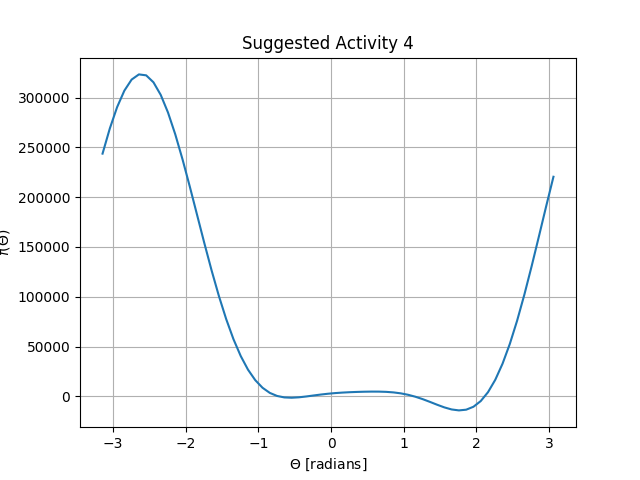
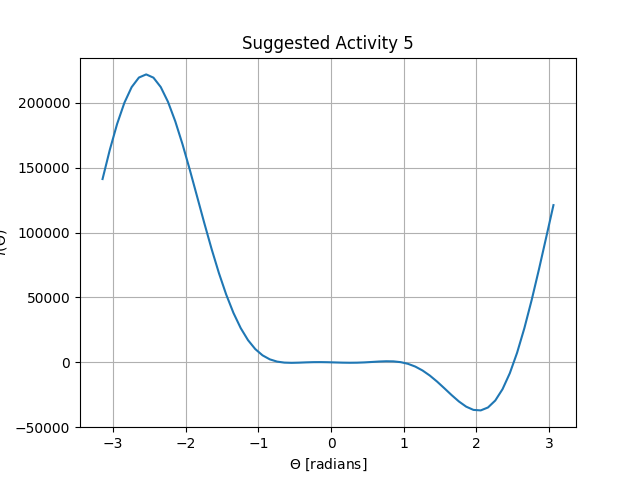
Kláraði 4 og 5

diff --git a/v1.py b/v1.py
@@ -7,7 +7,6 @@ Institute:  Haskoli Islands
 Professor:  Sigurdur Freyr Hafstein
 Authors:    Erling Oskar Kristjansson   eok4@hi.is
             David Freyr Bjornsson       dfb2@hi.is
-            
 """
 
 import numpy as np
@@ -15,20 +14,28 @@ import math
 import scipy.optimize as scOpt
 import matplotlib.pyplot as plt
 
-''' Vidvaerar breytur fyrir Suggested Activities 1-3 allavega '''
+""" 
+
+Ytri breytur (stikar) sem við skilgreinum sem
+global eða viðværar breytur 
+
+"""
+# global x1, x2, y2, L1, L2, L3, gamma, p1, p2, p3 
 x1=y2   = 4     # tekid af fig 1.15
 x2      = 0     # tekid af fig 1.15
-L1      = 2     # skritid ad thessi se ekki notadur, en hann kemur ekki fram i jofnunni i bokinni
+L1      = 2     
 L2 = L3 = np.sqrt(2)
 gamma   = np.pi/2
 p1=p2=p3= np.sqrt(5)
 
 ''' Suggested Activity 1
-Params L1,L2,L3,γ,x1,x2,y2 are fixed constants,
-strut lengths p1,p2,p3 will be known for a given pose.
+Params L1, L2, L3, γ, x1, x2, y2 are fixed constants,
+strut lengths p1, p2, p3 will be known for a given pose.
 '''
+print("\n Suggested Activity 1 \n")
+# Fallið f skilar f(theta, p1, p2, p3, L1, L2, L3, gamma, x1, x2, y2)
+# fyrir gefin gildi á theta, p1, p2, p3, L1, L2, L3, gamma, x1, x2 og y2
 def f(theta, p1, p2, p3, L1, L2, L3, gamma, x1, x2, y2):
-    ### Derived:
     A2      = L3*np.cos(theta)-x1
     B2      = L3*np.sin(theta)
     A3      = L2*np.cos(theta+gamma)-x2
@@ -40,12 +47,12 @@ def f(theta, p1, p2, p3, L1, L2, L3, gamma, x1, x2, y2):
     N2      =-A3*aNum+A2*bNum 
     return N1**2+N2**2-p1**2*D**2
 
-thetaGiven = np.pi/4
-
-#print(f(theta0))     # -4.547473508864641e-13 simeq 0... Eigum vid ad meta ovissu?
-#print(f(-theta0))
-#print(f(0))
-#print(f(np.pi))
+print("Látum theta = -pi/4 og theta = pi/4")
+print("Þá ætti f(theta) = 0")
+print("Nú fæst að f(theta) er:")
+print(f(np.pi/4, p1, p2, p3, L1, L2, L3, gamma, x1, x2, y2))
+print("og")
+print(f(-np.pi/4, p1, p2, p3, L1, L2, L3, gamma, x1, x2, y2))     
 
 '''
 Suggested Activity 2
@@ -54,37 +61,51 @@ Her sest nokkud merkilegt nefnilega hvad grafid er nalaegt nulli lengi.
 Hefur sannarlega nullpunkta i +/- 0.25*pi eins og lysingin segir.
 Maetti teikna thad staerra eda skyrar...
 '''
-
-def fPlot(thetaLow, thetaHigh, fileName, graphTitle):
-
-        theRange = np.arange(thetaLow, thetaHigh, 0.1)
-
+print("\n Suggested Activity 2 \n")
+def fPlot(thetaL, thetaH, fileName, graphTitle):
+        # Setjum bilið á theta sem við viljum
+        # teikna f(theta) fyrir
+        theRange = np.arange(thetaL, thetaH, 0.1)
+        # Upphafsstillum myndina og ásana
         figure, axis = plt.subplots()
+        # Teiknum grafið
         axis.plot(theRange, f(theRange, p1, p2, p3, L1, L2, L3, gamma, x1, x2, y2))
+        # Setjum titil á grafið og ásana
         axis.set(xlabel=r"${\Theta}$ [radians]", 
                 ylabel="$f({\Theta})$",
                 title = graphTitle)
         axis.grid()
+        # Vistum myndina
         fileString = fileName + ".png"
         figure.savefig(fileString)
-        plt.xticks(np.arange(thetaLow, thetaHigh, 0.5))
+        # Setjum minnsta sýnilega bilið á x - ásnum
+        plt.xticks(np.arange(thetaL, thetaH, 0.5))
         plt.show()
 
+# Teiknum f(theta) fyrir theta frá -pi upp í pi
 fPlot(-np.pi, np.pi, "sa2", 'Suggested Activity 2')
 
-# Skilar núllstöð f. Þarf upphafságiskun sem byggir á
-# því að skoða graf af f(theta) 
+# Finnum núllstöðvar f(theta) með útreikningi
+# Þær ættu að vera theta = pi/4 og theta = -pi/4
+
+# fSolver skilar núllstöð f. Þarf upphafságiskun sem byggir á
+# því að skoða graf af f(theta)
 def fSolver(f, thetaGuess): 
         func = lambda theta : f(theta, p1, p2, p3, L1, L2, L3, gamma, x1, x2, y2)
         # Aðferðin sem fsolve notar til að finna núllstöð: 
         # https://www.math.utah.edu/software/minpack/minpack/hybrd.html
-        thetaSolution = scOpt.fsolve(func, thetaGuess)
-        return thetaSolution
+        thetaSol = scOpt.fsolve(func, thetaGuess)
+        return thetaSol
 
 # Skoðum graf af f(theta) og sjáum þá fyrir hvaða gildi
 # á theta, f(theta) er nálægt núlli
 thetaCalculated = fSolver(f, np.pi/5)
+thetaGiven = np.pi/4
+print("Núllstöð f(theta) sem fékkst með ítrun er:", thetaCalculated)
+print("Gefin núllstöð f(theta) er:", thetaGiven)
 
+thetaCalculated = fSolver(f, -np.pi/5)
+thetaGiven = -np.pi/4
 print("Núllstöð f(theta) sem fékkst með ítrun er:", thetaCalculated)
 print("Gefin núllstöð f(theta) er:", thetaGiven)
 
@@ -92,6 +113,7 @@ print("Gefin núllstöð f(theta) er:", thetaGiven)
 Suggested Activity 3
 Reproduce Figure 1.15
 '''
+print("\n Suggested Activity 3 \n")
 # Latum xL2 := x + L2*cos(theta + gamma)
 #       yL2 := y + L2*sin(theta + gamma)
 #       xL3 := x + L3*cos(theta + gamma)
@@ -139,9 +161,8 @@ def plotStewartPlatform(x, y, x1, x2, y2, xL2, yL2, xL3, yL3, plotTitle="Vantar 
         plotObject.set(xlabel="x", 
                 ylabel="y",
                 title = plotTitle)
-        # plotObject.ylabel.set_rotation('0')     Hef reynt ad snua thessu y
-        # plotObject.grid()
 
+        # Vistum myndina
         plotSaveFile = plotName + ".png"
         fig.savefig(plotSaveFile)
         plt.show()
@@ -167,6 +188,7 @@ Suggested Activity 4
 Solve the forward kinematics problem for the planar Stewart platform.
 Plot f(theta) and then solve f(theta) = 0
 '''
+print("\n Suggested Activity 4 \n")
 # Stikar
 x1 = 5 
 x2, y2 = 0, 6
@@ -180,27 +202,27 @@ p3 = 3
 fPlot(-np.pi, np.pi, "sa4", 'Suggested Activity 4')
 
 # Finnum núna fjórar núllstöðvar f(theta)
-thetaCalculated = np.zeros(4, dtype=float)
+thetas = np.zeros(4, dtype=float)
 
 # Útfrá mynd sést að ágætis upphafsgisk fyrir
 # þessar fjórar núllstöðvar f(theta) eru
-# -0.7, -0.6, 1.1, 2.1
-thetaGuesses = [-0.7, -0.3, 1.1, 2.1]
+# -0.7, -0.3, 1.1, 2.1
+thetasGuess = [-0.7, -0.3, 1.1, 2.1]
 
 # Hér fáum við út réttar núllstöðvar
-print("Ef thetaCalculated er raunveruleg núllstöð þá ætti")
-print("f(thetaCalculated að vera mjög nálægt núlli \n")
-for i in range(0,len(thetaCalculated)):
-        thetaCalculated[i] = fSolver(f, thetaGuesses[i])
-        print("Nú fæst að thetaCalculated er:", thetaCalculated[i])
-        print("Svo er f(thetaCalculated:", f(thetaCalculated[i], p1, p2, p3, L1, L2, L3, gamma, x1, x2, y2), "\n")
+print("Ef theta er raunveruleg núllstöð þá ætti")
+print("f(theta) að vera mjög nálægt núlli \n")
+for i in range(0,len(thetas)):
+        thetas[i] = fSolver(f, thetasGuess[i])
+        print("Nú fæst að theta er:", thetas[i])
+        print("Svo er f(theta):", f(thetas[i], p1, p2, p3, L1, L2, L3, gamma, x1, x2, y2), "\n")
 
-# Reiknum út x og y fyrir útreiknaðar núllstöðvar f(theta)
-xCalc = np.zeros(4, dtype=float)
-yCalc = np.zeros(4, dtype=float)
+# Geymir x og y gildin fyrir útreiknaðar núllstöðvar f(theta)
+xy = np.zeros([4,2], dtype=float)
 
+# Fallið xyCalc reiknar út gildin á x og y miðað við gefin
+# gildi á theta, p1, p2, p3, L1, L2, L3, gamma, x1, x2 og y2.
 def xyCalc(theta, p1, p2, p3, L1, L2, L3, gamma, x1, x2, y2):
-    ### Derived:
     A2      = L3*np.cos(theta)-x1
     B2      = L3*np.sin(theta)
     A3      = L2*np.cos(theta+gamma)-x2
@@ -210,34 +232,98 @@ def xyCalc(theta, p1, p2, p3, L1, L2, L3, gamma, x1, x2, y2):
     D       = 2*(A2*B3-B2*A3)
     N1      = B3*aNum-B2*bNum
     N2      =-A3*aNum+A2*bNum 
-    
     x = N1/D
     y = N2/D
-    return x,y
+    return [x, y]
 
 for i in range(0, 4): 
-        xCalc[i], yCalc[i] = xyCalc(thetaCalculated[i], p1, p2, p3, L1, L2, L3, gamma, x1, x2, y2)
+        xy[i] = xyCalc(thetas[i], p1, p2, p3, L1, L2, L3, gamma, x1, x2, y2)
 
-# Útfrá útreiknuðum theta, x og y gildum getum  við síðan reiknað xL2, yL2, xL3, yL3
-xL2Calc = yL2Calc = xL3Calc = yL3Calc = np.zeros(4, dtype=float)
+# Útfrá útreiknuðum theta, x og y gildum getum við síðan reiknað xL2, yL2, xL3, yL3
+xyL23 = np.zeros([4,4], dtype=float)
 
-def xyLCalc(theta, p1, p2, p3, L1, L2, L3, gamma, x1, x2, y2, x, y): 
+def xyLCalc(theta, x, y, p1, p2, p3, L1, L2, L3, gamma, x1, x2, y2): 
         xL2 = x + L2*np.cos(theta + gamma)
         yL2 = y + L2*np.sin(theta + gamma)
         xL3 = x + L3*np.cos(theta)
         yL3 = y + L3*np.sin(theta)
-        return xL2,yL2,xL3,yL3
+        return [xL2, yL2, xL3, yL3]
 
 for i in range(0, 4):
-        xL2Calc[i], yL2Calc[i], xL3Calc[i], yL3Calc[i] = xyLCalc(thetaCalculated[i], p1, p2, p3, L1, L2, L3, gamma, x1, x2, y2, xCalc[i], yCalc[i])
+        xyL23[i] = xyLCalc(thetas[i], xy[i,0], xy[i,1], p1, p2, p3, L1, L2, L3, gamma, x1, x2, y2)
 
 # Teiknum Stewart platform fyrir þessar fjórar núllstöðvar f(theta)
 # og könnum í leiðinni hvort lengdirnar á struts séu p1, p2 og p3
+
+# Fáum röng gildi á p3Calc fyrir fyrstu 2 núllstöðvarnar en þar er
+# f(theta) mun flatari ferill en fyrir þær seinni 2. Villumögnun
+# gæti því verið að valda þessu
 for i in range(0, 4):
-        p1Calc = math.hypot(x - 0, y - 0)
-        p2Calc = math.hypot(xL3 - x1, yL3 - 0)
-        p3Calc = math.hypot(xL2 - x2, yL2 - y2)
+        p1Calc = math.hypot(xy[i,0] - 0, xy[i,1] - 0)
+        p2Calc = math.hypot(xyL23[i,2] - x1, xyL23[i,3] - 0)
+        p3Calc = math.hypot(xyL23[i,0] - x2, xyL23[i,1] - y2)
+        print("Fyrir núllstöðina", thetas[i], "þá fást eftirfarandi niðurstöður")
         print("Nú er p1 = 5 en útreiknað gildi er:", p1Calc)
         print("Nú er p2 = 5 en útreiknað gildi er:", p2Calc)
         print("Nú er p3 = 3 en útreiknað gildi er:", p3Calc)
-        plotStewartPlatform(xCalc[i], yCalc[i], x1, x2, y2, xL2Calc[i], yL2Calc[i], xL3Calc[i], yL3Calc[i])
+        print("\n")
+        plotStewartPlatform(xy[i,0], xy[i,1], x1, x2, y2, xyL23[i, 0], xyL23[i, 1], xyL23[i, 2], xyL23[i, 3], "Suggested Activity 4", "sa4")
+
+'''
+Suggested Activity 5
+Change strut length to p2 = 7 and re-solve the problem. 
+For these parameters, there are six poses
+'''
+print("Suggested Activity 4 \n")
+# Change the value of p2
+p2 = 7
+
+# Teiknum f(theta) fyrir theta frá -pi upp í pi
+fPlot(-np.pi, np.pi, "sa4", 'Suggested Activity 5')
+
+# Finnum núna sex núllstöðvar f(theta)
+# Hér er ferillinn mjög flatur í kringum fimm
+# af sex núllstöðvunum
+thetas2 = np.zeros(6, dtype=float)
+
+# Útfrá mynd sést að ágætis upphafsgisk fyrir
+# þessar sex núllstöðvar f(theta) eru
+# -0.7, -0.4, 0, 0.42, 1, 2.5
+thetasGuess2 = [-0.7, -0.4, 0, 0.42, 1, 2.5]
+
+# Hér fáum við út réttar núllstöðvar
+print("Ef theta er raunveruleg núllstöð þá ætti")
+print("f(theta) að vera mjög nálægt núlli \n")
+for i in range(0,len(thetas2)):
+        thetas2[i] = fSolver(f, thetasGuess2[i])
+        print("Nú fæst að theta er:", thetas2[i])
+        print("Svo er f(theta):", f(thetas2[i], p1, p2, p3, L1, L2, L3, gamma, x1, x2, y2), "\n")
+
+# Geymir x og y gildin fyrir útreiknaðar núllstöðvar f(theta)
+xy2 = np.zeros([4,2], dtype=float)
+
+for i in range(0, 4): 
+        xy2[i] = xyCalc(thetas2[i], p1, p2, p3, L1, L2, L3, gamma, x1, x2, y2)
+
+# Útfrá útreiknuðum theta, x og y gildum getum við síðan reiknað xL2, yL2, xL3, yL3
+xy2L23 = np.zeros([4,4], dtype=float)
+
+for i in range(0, 4):
+        xy2L23[i] = xyLCalc(thetas2[i], xy2[i,0], xy2[i,1], p1, p2, p3, L1, L2, L3, gamma, x1, x2, y2)
+
+# Teiknum Stewart platform fyrir þessar fjórar núllstöðvar f(theta)
+# og könnum í leiðinni hvort lengdirnar á struts séu p1, p2 og p3
+
+# Fáum röng gildi á p3Calc fyrir fyrstu 2 núllstöðvarnar en þar er
+# f(theta) mun flatari ferill en fyrir þær seinni 2. Villumögnun
+# gæti því verið að valda þessu
+for i in range(0, 4):
+        p1Calc2 = math.hypot(xy2[i,0] - 0, xy2[i,1] - 0)
+        p2Calc2 = math.hypot(xy2L23[i,2] - x1, xy2L23[i,3] - 0)
+        p3Calc2 = math.hypot(xy2L23[i,0] - x2, xy2L23[i,1] - y2)
+        print("Fyrir núllstöðina", thetas2[i], "þá fást eftirfarandi niðurstöður")
+        print("Nú er p1 = 5 en útreiknað gildi er:", p1Calc2)
+        print("Nú er p2 = 7 en útreiknað gildi er:", p2Calc2)
+        print("Nú er p3 = 3 en útreiknað gildi er:", p3Calc2)
+        print("\n")
+        plotStewartPlatform(xy2[i,0], xy2[i,1], x1, x2, y2, xy2L23[i, 0], xy2L23[i, 1], xy2L23[i, 2], xy2L23[i, 3], "Suggested Activity 5", "sa5")

diff --git a/funDefaultArg.py b/funDefaultArg.py
@@ -1,0 +1,53 @@
+a = 2 
+b = 3
+
+def fun(x, a = a, b = b):
+    return x + a + b
+
+# Hér ætti að koma út 1 + 2 + 3 = 6
+print(fun(1))
+
+a = 0 
+b = 0
+
+# Hér ætti að koma út 1 + 0 + 0 = 1
+# en það kemur út 6
+print(fun(1))
+
+################################
+
+print("\n Gerum þetta með því að nota global lykilorðið \n")
+
+global c, d
+c = 2
+d = 3 
+
+def fun2(y, c = c, d = d):
+    return y + a + b
+
+# Hér ætti að koma út 1 + 2 + 3 = 6
+print(fun(1))
+
+c = 0 
+d = 0
+
+# Hér ætti að koma út 1 + 0 + 0 = 1
+print(fun2(1))
+
+print("\n Sleppum að nota default arguments \n")
+
+y = 1
+e = 2
+f = 3 
+
+def fun3(y, e, f):
+    return y + e + f
+
+# Hér ætti að koma út 1 + 2 + 3 = 6
+print(fun3(y, e, f))
+
+e = 0 
+f = 0
+
+# Hér ætti að koma út 1 + 0 + 0 = 1
+print(fun3(y, e, f))
